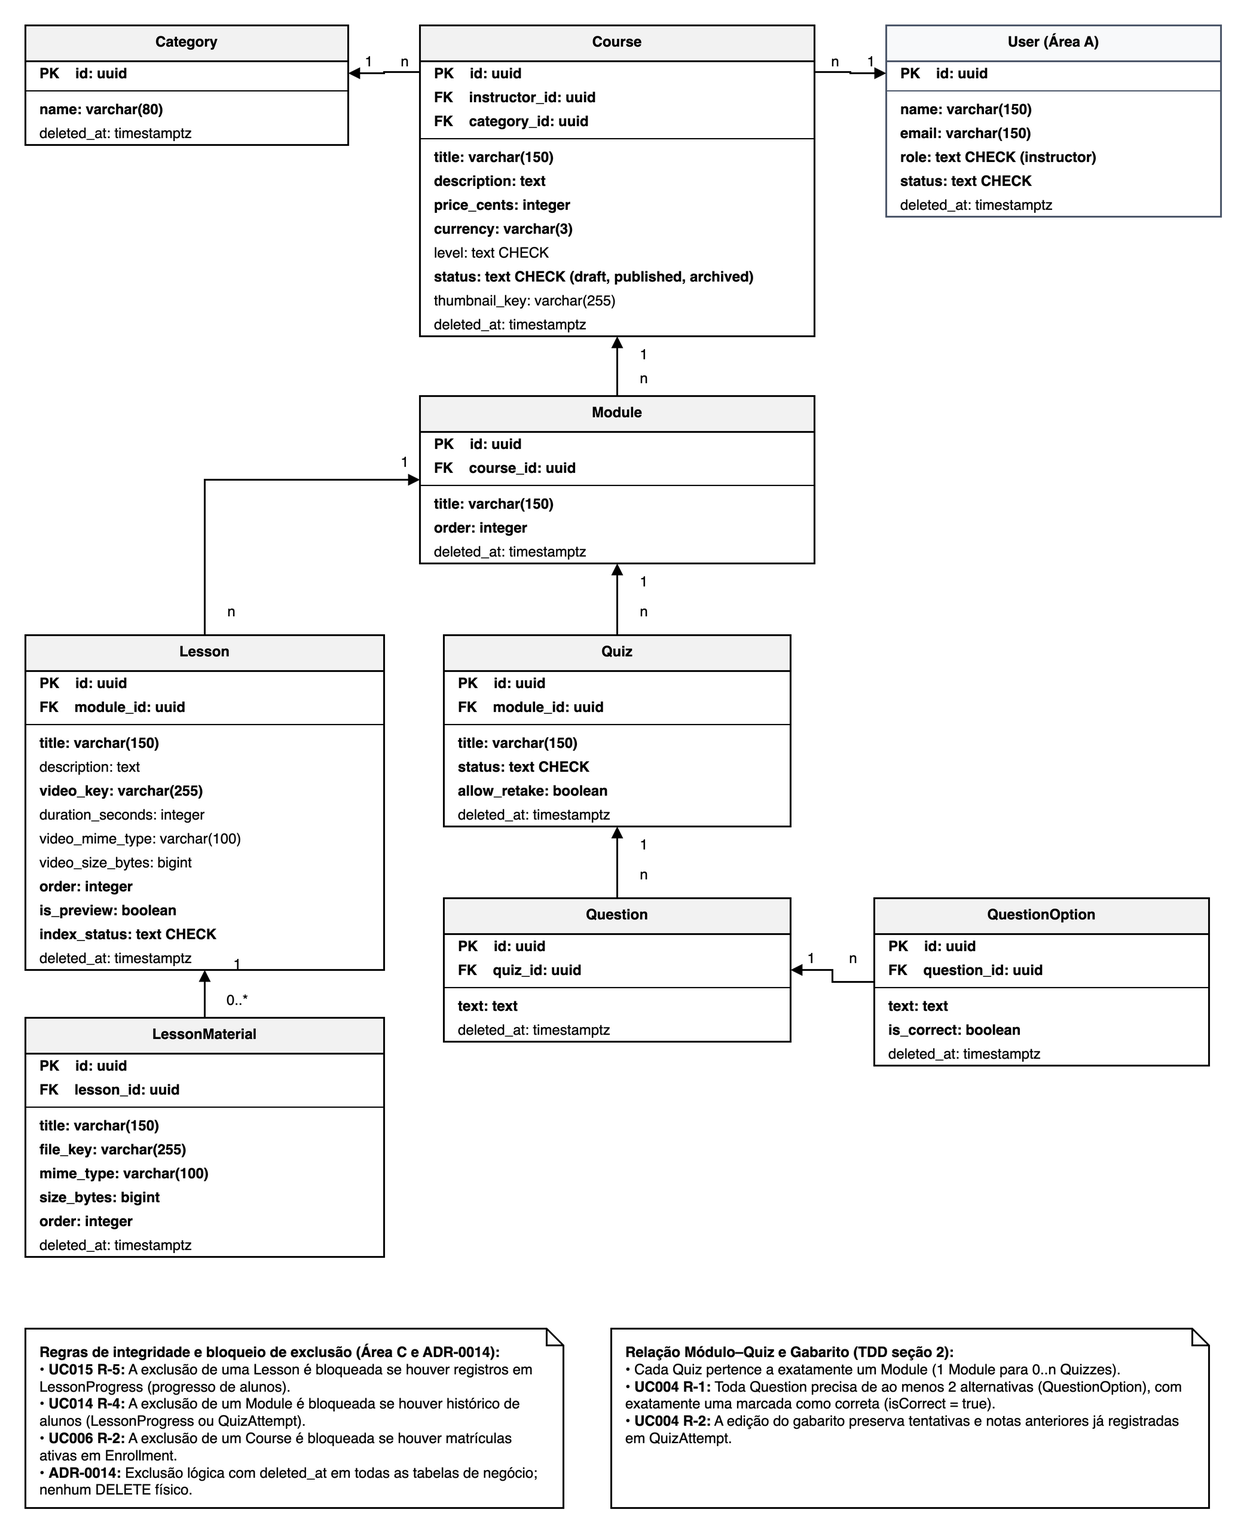
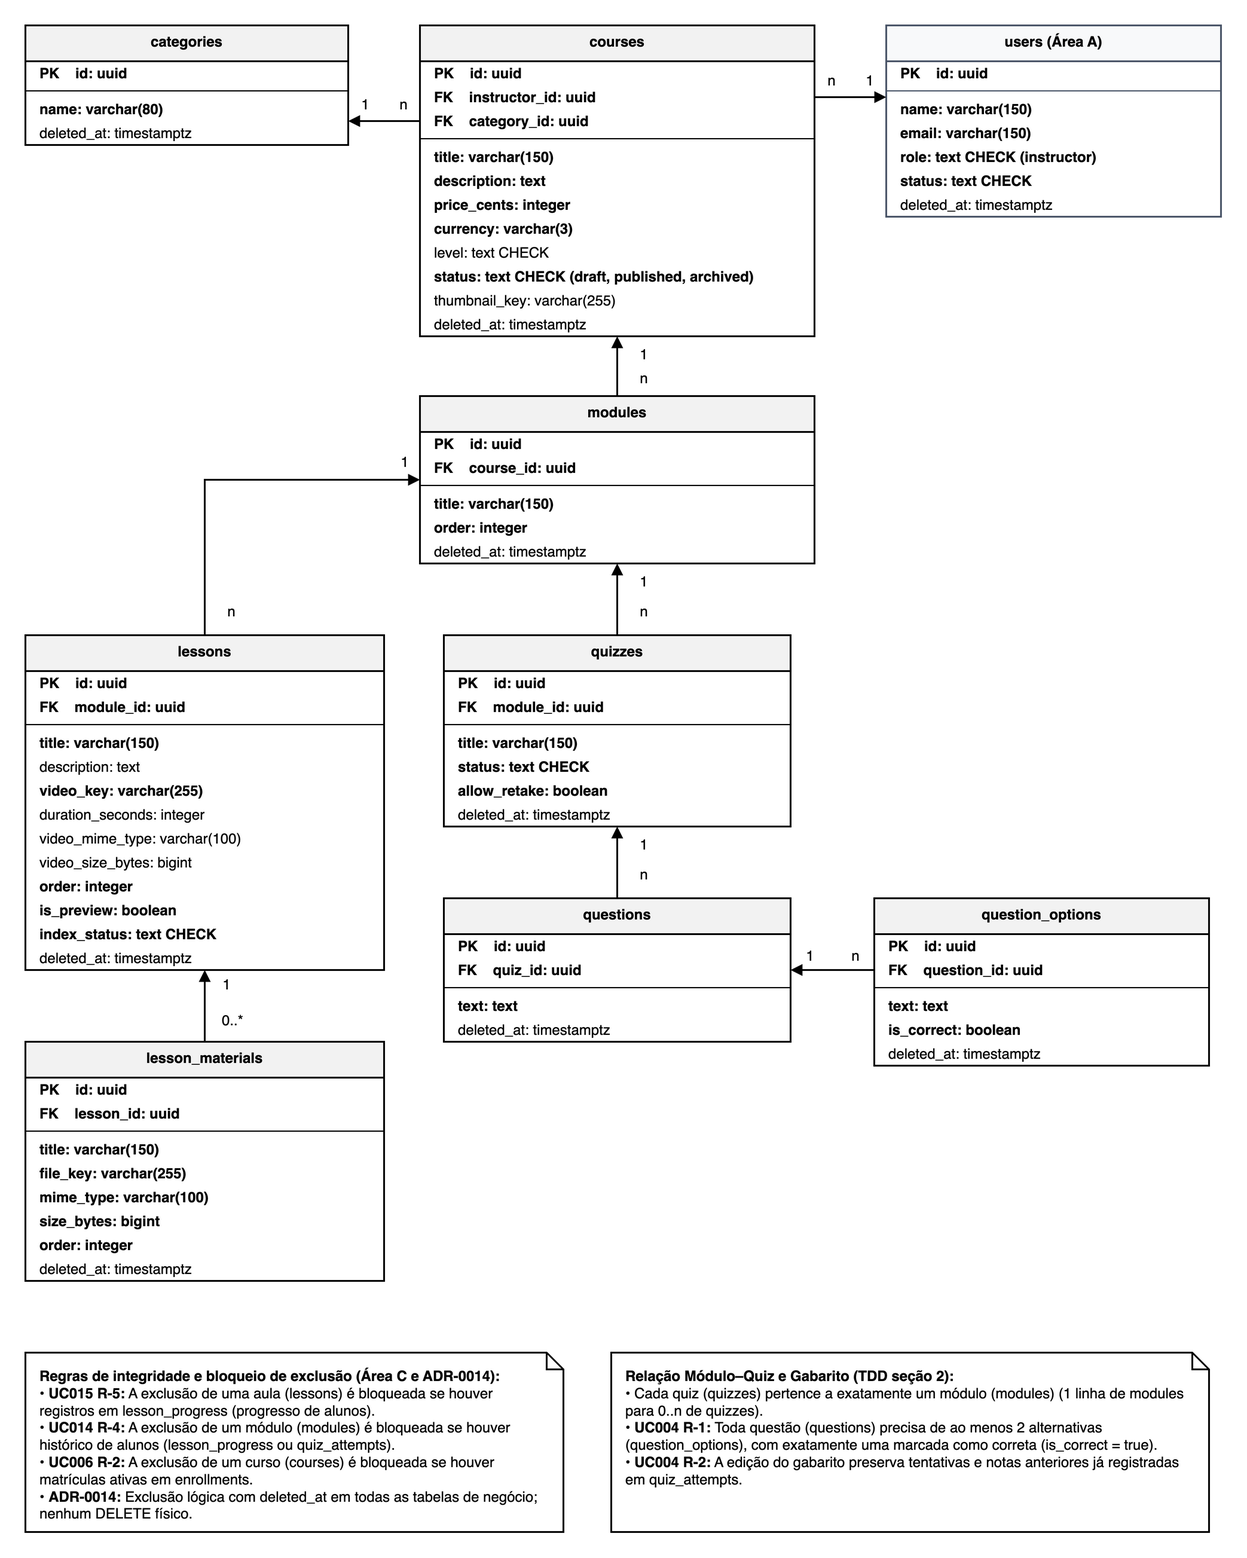
docs(modelo-de-dados): rename area B tables to plural snake_case and straighten arrows
Tables follow ADR-0015 (snake_case in the database) and match Area A naming
(users, addresses). The relational diagram now has straight arrows and the
multiplicity labels no longer sit inside table boxes.

(cherry picked from commit a07269273ffab92caa2e1a95ee2a86d6fb2825f5)

diff --git a/especificacao/12-modelo-de-dados/area-b.md b/especificacao/12-modelo-de-dados/area-b.md
@@ -1,6 +1,6 @@
 ## 2. Área B – Autoria do instrutor
 
-Tabelas que sustentam a criação e gestão de cursos, módulos, aulas com materiais complementares e quizzes com gabarito pelo Instrutor (UC004, UC006, UC014 e UC015; RF002, RF003, RF004 e RF007; US004, US005, US006 e US010). As entidades `Category`, `Course`, `Module`, `Lesson`, `LessonMaterial`, `Quiz`, `Question` e `QuestionOption` derivam do plano técnico, do modelo do TDD e das decisões arquiteturais vigentes (PostgreSQL 16 sob ADR-0017, convenção de nomes snake_case no banco sob ADR-0015 e exclusão lógica sob ADR-0014). A relação entre `Course` e `User` (Área A) expressa a autoria via chave estrangeira `instructor_id`. As regras de integridade com as tabelas de progresso e tentativas de alunos da Área C (`LessonProgress`, `QuizAttempt` e `Enrollment`) garantem que cursos com matrículas ativas (UC006 R-2), módulos com histórico de aulas assistidas ou respostas a quizzes (UC014 R-4) e aulas com registros de progresso (UC015 R-5) tenham sua exclusão estritamente bloqueada, preservando o histórico acadêmico.
+Tabelas que sustentam a criação e gestão de cursos, módulos, aulas com materiais complementares e quizzes com gabarito pelo Instrutor (UC004, UC006, UC014 e UC015; RF002, RF003, RF004 e RF007; US004, US005, US006 e US010). As entidades `categories`, `courses`, `modules`, `lessons`, `lesson_materials`, `quizzes`, `questions` e `question_options` derivam do plano técnico, do modelo do TDD e das decisões arquiteturais vigentes (PostgreSQL 16 sob ADR-0017, convenção de nomes snake_case no banco sob ADR-0015 e exclusão lógica sob ADR-0014). A relação entre `courses` e `users` (Área A) expressa a autoria via chave estrangeira `instructor_id`. As regras de integridade com as tabelas de progresso e tentativas de alunos da Área C (`lesson_progress`, `quiz_attempts` e `enrollments`) garantem que cursos com matrículas ativas (UC006 R-2), módulos com histórico de aulas assistidas ou respostas a quizzes (UC014 R-4) e aulas com registros de progresso (UC015 R-5) tenham sua exclusão estritamente bloqueada, preservando o histórico acadêmico.
 
 ![Modelo lógico da Área B](../diagramas/12-modelo-de-dados-area-b.png)
 
@@ -10,29 +10,29 @@ Decisões do modelo:
 
 - **Convenção por camada e banco PostgreSQL 16 (ADR-0015, ADR-0017):** todas as tabelas e colunas são persistidas em língua inglesa e no padrão `snake_case` (ex.: `course_id`, `video_key`, `created_at`, `deleted_at`). Os tipos de dados utilizam os recursos nativos do PostgreSQL 16: identificadores primários e estrangeiros em `uuid`, strings em `varchar(n)` ou `text`, valores monetários e contadores em `integer` e `bigint`, datas com fuso horário em `timestamptz` e enumerações validadas via restrição `CHECK` (ex.: `level`, `status`, `index_status`).
 - **Exclusão lógica em todo o sistema (ADR-0014):** toda tabela de negócio da Área B contém a coluna `deleted_at: timestamptz` (trait `SoftDeletes` do Eloquent). Nenhuma exclusão realiza `DELETE` físico no banco de dados. As consultas operacionais ignoram registros onde `deleted_at IS NOT NULL`.
-- **Relação Módulo–Quiz resolvida (TDD seção 2):** cada `Quiz` pertence a exatamente um `Module` (`Quiz.module_id` obrigatório), e cada `Module` pode conter zero ou mais quizzes (`0..n`). Isso resolve a hierarquia pedagógica do curso, permitindo avaliações modulares pontuais ou finais de módulo.
+- **Relação Módulo–Quiz resolvida (TDD seção 2):** cada linha de `quizzes` pertence a exatamente um registro de `modules` (`quizzes.module_id` obrigatório), e cada módulo pode conter zero ou mais quizzes (`0..n`). Isso resolve a hierarquia pedagógica do curso, permitindo avaliações modulares pontuais ou finais de módulo.
 - **Normalização até a 3ª Forma Normal (3FN):** todas as tabelas da Área B encontram-se rigorosamente na 3FN. As chaves primárias são UUIDs únicos, todos os atributos não-chave dependem exclusivamente da chave primária inteira (sem dependências parciais) e não há dependências transitivas entre atributos não-chave.
 - **Bloqueio de exclusão e integridade com a Área C:**
-  - A exclusão de um `Course` é bloqueada se houver alunos com matrículas ativas em `Enrollment` (UC006 R-2 e E2, retornando HTTP `409 Conflict`), permitindo apenas a alteração de status para despublicado / rascunho (`draft`) ou arquivado (`archived`).
-  - A exclusão de um `Module` é bloqueada se houver histórico de alunos registrado em `LessonProgress` (para qualquer aula do módulo) ou em `QuizAttempt` (para qualquer quiz do módulo) (UC014 R-4 e E4, retornando HTTP `409 Conflict`). Caso não haja histórico, a exclusão lógica em cascata marca `deleted_at` no módulo, em suas aulas e nos seus quizzes.
-  - A exclusão de uma `Lesson` é bloqueada se houver qualquer registro em `LessonProgress` (UC015 R-5 e E4, retornando HTTP `409 Conflict`). Caso contrário, a exclusão lógica preenche `deleted_at` na aula e em seus materiais complementares e aciona a remoção física dos arquivos de vídeo e materiais no storage Cloudflare R2 via `media-service`.
+  - A exclusão de um curso (`courses`) é bloqueada se houver alunos com matrículas ativas em `enrollments` (UC006 R-2 e E2, retornando HTTP `409 Conflict`), permitindo apenas a alteração de status para despublicado / rascunho (`draft`) ou arquivado (`archived`).
+  - A exclusão de um módulo (`modules`) é bloqueada se houver histórico de alunos registrado em `lesson_progress` (para qualquer aula do módulo) ou em `quiz_attempts` (para qualquer quiz do módulo) (UC014 R-4 e E4, retornando HTTP `409 Conflict`). Caso não haja histórico, a exclusão lógica em cascata marca `deleted_at` no módulo, em suas aulas e nos seus quizzes.
+  - A exclusão de uma aula (`lessons`) é bloqueada se houver qualquer registro em `lesson_progress` (UC015 R-5 e E4, retornando HTTP `409 Conflict`). Caso contrário, a exclusão lógica preenche `deleted_at` na aula e em seus materiais complementares e aciona a remoção física dos arquivos de vídeo e materiais no storage Cloudflare R2 via `media-service`.
 - **Upload via API e gestão de vídeo (UC015, RNF004, RNF018, decisões B2 e B3):** o arquivo de vídeo é enviado diretamente à API em requisição `multipart/form-data`. O backend repassa o binário ao serviço de mídia (`media-service`), que grava o objeto no Cloudflare R2 e retorna a chave persistida (`video_key: varchar(255)`), a duração em segundos (`duration_seconds: integer`), o tipo MIME (`video_mime_type: varchar(100)`) e o tamanho em bytes (`video_size_bytes: bigint`). A aula só é salva após a confirmação do upload, tornando `video_key` estritamente obrigatório. O envio de novo vídeo dispara o job assíncrono de transcrição e indexação vetorial no `ai-service` via fila RabbitMQ (RNF004), com o estado acompanhado pelo campo `index_status: text CHECK (pending, indexed, failed)`.
-- **Materiais complementares da aula (decisão B4):** a tabela `LessonMaterial` (0..n por aula) armazena os anexos de apoio (ex.: apostilas em PDF com até 50 MB), guardando `title: varchar(150)`, a chave no storage (`file_key: varchar(255)`), `mime_type: varchar(100)`, `size_bytes: bigint`, a posição sequencial (`order: integer`) e `deleted_at: timestamptz`. O upload segue o mesmo fluxo da API intermediando a gravação no R2 via `media-service`.
-- **Ciclo de vida do curso e status arquivado (decisão D-TC266):** a coluna `Course.status` aceita os valores `draft`, `published` e `archived`. Na exclusão de uma conta de Instrutor pelo Administrador (UC018), é oferecida a opção de arquivar seus cursos (`status = 'archived'`), o que os oculta do catálogo público para novas matrículas, preservando o acesso irrestrito aos alunos já matriculados.
-- **Estrutura de Quiz, Gabarito e Retentativas (UC004 R-1, R-2):** cada `Quiz` possui status de publicação (`status: text CHECK (draft, published)`) e controle de novas tentativas (`allow_retake: boolean`, padrão `true`). Cada `Question` possui enunciado próprio e associa-se a pelo menos duas alternativas em `QuestionOption`, das quais exatamente uma possui `is_correct = true` (R-1). A edição de enunciados ou do gabarito preserva o histórico de respostas e as notas já atribuídas em `QuizAttempt` (R-2).
-- **Mapeamento de Enums e Internacionalização:** conforme a arquitetura do sistema (ADR-0015), todos os valores enumerados são persistidos no banco de dados em língua inglesa (ex.: `status` em `Course` como `draft`, `published`, `archived`; `status` em `Quiz` como `draft` e `published`; `level` em `Course` como `beginner`, `intermediate` e `advanced`; `index_status` em `Lesson` como `pending`, `indexed` e `failed`). As camadas de apresentação (frontend) e de contrato da API realizam o mapeamento bidirecional desses valores para os respectivos rótulos em português exibidos ao usuário (ex.: `draft` → 'Rascunho', `published` → 'Publicado', `archived` → 'Arquivado'; `pending` → 'Pendente', `indexed` → 'Indexado', `failed` → 'Falhou'; `beginner` → 'Iniciante', `intermediate` → 'Intermediário', `advanced` → 'Avançado').
-- **Valores monetários e localização:** `Course.price_cents` armazena o preço em centavos como número inteiro para evitar imprecisões de arredondamento de ponto flutuante, com `Course.currency` fixada no código ISO 4217 (`BRL` por padrão).
+- **Materiais complementares da aula (decisão B4):** a tabela `lesson_materials` (0..n por aula) armazena os anexos de apoio (ex.: apostilas em PDF com até 50 MB), guardando `title: varchar(150)`, a chave no storage (`file_key: varchar(255)`), `mime_type: varchar(100)`, `size_bytes: bigint`, a posição sequencial (`order: integer`) e `deleted_at: timestamptz`. O upload segue o mesmo fluxo da API intermediando a gravação no R2 via `media-service`.
+- **Ciclo de vida do curso e status arquivado (decisão D-TC266):** a coluna `courses.status` aceita os valores `draft`, `published` e `archived`. Na exclusão de uma conta de Instrutor pelo Administrador (UC018), é oferecida a opção de arquivar seus cursos (`status = 'archived'`), o que os oculta do catálogo público para novas matrículas, preservando o acesso irrestrito aos alunos já matriculados.
+- **Estrutura de Quiz, Gabarito e Retentativas (UC004 R-1, R-2):** cada quiz (`quizzes`) possui status de publicação (`status: text CHECK (draft, published)`) e controle de novas tentativas (`allow_retake: boolean`, padrão `true`). Cada questão (`questions`) possui enunciado próprio e associa-se a pelo menos duas alternativas em `question_options`, das quais exatamente uma possui `is_correct = true` (R-1). A edição de enunciados ou do gabarito preserva o histórico de respostas e as notas já atribuídas em `quiz_attempts` (R-2).
+- **Mapeamento de Enums e Internacionalização:** conforme a arquitetura do sistema (ADR-0015), todos os valores enumerados são persistidos no banco de dados em língua inglesa (ex.: `status` em `courses` como `draft`, `published`, `archived`; `status` em `quizzes` como `draft` e `published`; `level` em `courses` como `beginner`, `intermediate` e `advanced`; `index_status` em `lessons` como `pending`, `indexed` e `failed`). As camadas de apresentação (frontend) e de contrato da API realizam o mapeamento bidirecional desses valores para os respectivos rótulos em português exibidos ao usuário (ex.: `draft` → 'Rascunho', `published` → 'Publicado', `archived` → 'Arquivado'; `pending` → 'Pendente', `indexed` → 'Indexado', `failed` → 'Falhou'; `beginner` → 'Iniciante', `intermediate` → 'Intermediário', `advanced` → 'Avançado').
+- **Valores monetários e localização:** `courses.price_cents` armazena o preço em centavos como número inteiro para evitar imprecisões de arredondamento de ponto flutuante, com `courses.currency` fixada no código ISO 4217 (`BRL` por padrão).
 
 | ATRIBUTO | CLASSE | DOMÍNIO | TAMANHO | DESCRIÇÃO |
 |---|---|---|---|---|
-| **Tabela: Category** | | | | Categorias temáticas de classificação dos cursos. |
+| **Tabela: categories** | | | | Categorias temáticas de classificação dos cursos. |
 | id | Determinante | UUID | - | Identificador único da categoria (chave primária). |
 | name | Simples | Texto | 80 | Nome descritivo da categoria de curso (obrigatório). |
 | deleted_at | Simples | Data e hora | - | Timestamp de exclusão lógica (ADR-0014); nulo se ativo. |
-| **Tabela: Course** | | | | Catálogo de cursos criados por instrutores (UC006, RF002). |
+| **Tabela: courses** | | | | Catálogo de cursos criados por instrutores (UC006, RF002). |
 | id | Determinante | UUID | - | Identificador único do curso (chave primária). |
-| instructor_id | Simples | UUID | - | FK para `User.id` (Área A), identificando o instrutor proprietário do curso. |
-| category_id | Simples | UUID | - | FK para `Category.id`, categorização temática do curso. |
+| instructor_id | Simples | UUID | - | FK para `users.id` (Área A), identificando o instrutor proprietário do curso. |
+| category_id | Simples | UUID | - | FK para `categories.id`, categorização temática do curso. |
 | title | Simples | Texto | 150 | Título oficial do curso (obrigatório). |
 | description | Simples | Texto longo | TEXT | Descrição detalhada do conteúdo programático (obrigatório). |
 | price_cents | Simples | Inteiro | - | Preço do curso expresso em centavos (inteiro, obrigatório). |
@@ -41,15 +41,15 @@ Decisões do modelo:
 | status | Simples | Texto | 20 | Estado de publicação: 'draft', 'published' ou 'archived' (obrigatório, padrão 'draft'). |
 | thumbnail_key | Simples | Texto | 255 | Chave da imagem de capa no storage Cloudflare R2 (opcional). |
 | deleted_at | Simples | Data e hora | - | Timestamp de exclusão lógica (ADR-0014); nulo se ativo. |
-| **Tabela: Module** | | | | Módulos de conteúdo programático ordenados dentro do curso (UC014, RF003). |
+| **Tabela: modules** | | | | Módulos de conteúdo programático ordenados dentro do curso (UC014, RF003). |
 | id | Determinante | UUID | - | Identificador único do módulo (chave primária). |
-| course_id | Simples | UUID | - | FK para `Course.id`, curso ao qual o módulo pertence. |
+| course_id | Simples | UUID | - | FK para `courses.id`, curso ao qual o módulo pertence. |
 | title | Simples | Texto | 150 | Título descritivo do módulo (obrigatório). |
 | order | Simples | Inteiro | - | Posição sequencial do módulo dentro do curso (única por curso, obrigatório). |
 | deleted_at | Simples | Data e hora | - | Timestamp de exclusão lógica (ADR-0014); nulo se ativo. |
-| **Tabela: Lesson** | | | | Unidade de aula em vídeo com metadados e indexação vetorial (UC015, RF004). |
+| **Tabela: lessons** | | | | Unidade de aula em vídeo com metadados e indexação vetorial (UC015, RF004). |
 | id | Determinante | UUID | - | Identificador único da aula (chave primária). |
-| module_id | Simples | UUID | - | FK para `Module.id`, módulo ao qual a aula pertence. |
+| module_id | Simples | UUID | - | FK para `modules.id`, módulo ao qual a aula pertence. |
 | title | Simples | Texto | 150 | Título da aula (obrigatório). |
 | description | Simples | Texto longo | TEXT | Descrição do conteúdo da aula (opcional). |
 | video_key | Simples | Texto | 255 | Chave do arquivo de vídeo no storage Cloudflare R2 (obrigatório após upload). |
@@ -60,30 +60,30 @@ Decisões do modelo:
 | is_preview | Simples | Booleano | - | Flag indicando se a aula pode ser assistida gratuitamente como degustação (padrão false). |
 | index_status | Simples | Texto | 20 | Status da indexação vetorial para o Tutor de IA: 'pending', 'indexed', 'failed' (obrigatório, padrão 'pending'). |
 | deleted_at | Simples | Data e hora | - | Timestamp de exclusão lógica (ADR-0014); nulo se ativo. |
-| **Tabela: LessonMaterial** | | | | Arquivos complementares de apoio vinculados à aula (UC015, RF004, decisão B4). |
+| **Tabela: lesson_materials** | | | | Arquivos complementares de apoio vinculados à aula (UC015, RF004, decisão B4). |
 | id | Determinante | UUID | - | Identificador único do material complementar (chave primária). |
-| lesson_id | Simples | UUID | - | FK para `Lesson.id`, aula à qual o material pertence. |
+| lesson_id | Simples | UUID | - | FK para `lessons.id`, aula à qual o material pertence. |
 | title | Simples | Texto | 150 | Título descritivo do material (obrigatório). |
 | file_key | Simples | Texto | 255 | Chave do arquivo de documento no storage Cloudflare R2 (obrigatório). |
 | mime_type | Simples | Texto | 100 | Tipo MIME do arquivo (ex.: 'application/pdf', obrigatório). |
 | size_bytes | Simples | Inteiro grande | - | Tamanho do arquivo em bytes (até 50 MB, obrigatório). |
 | order | Simples | Inteiro | - | Posição sequencial do material dentro da aula (obrigatório). |
 | deleted_at | Simples | Data e hora | - | Timestamp de exclusão lógica (ADR-0014); nulo se ativo. |
-| **Tabela: Quiz** | | | | Avaliações objetivas vinculadas aos módulos do curso (UC004, RF007). |
+| **Tabela: quizzes** | | | | Avaliações objetivas vinculadas aos módulos do curso (UC004, RF007). |
 | id | Determinante | UUID | - | Identificador único do quiz (chave primária). |
-| module_id | Simples | UUID | - | FK para `Module.id`, vinculando o quiz ao módulo correspondente. |
+| module_id | Simples | UUID | - | FK para `modules.id`, vinculando o quiz ao módulo correspondente. |
 | title | Simples | Texto | 150 | Título do quiz (obrigatório). |
 | status | Simples | Texto | 20 | Estado de publicação do quiz: 'draft' ou 'published' (obrigatório, padrão 'draft'). |
 | allow_retake | Simples | Booleano | - | Flag indicando se novas tentativas de resolução são permitidas após submissão (padrão true, obrigatório). |
 | deleted_at | Simples | Data e hora | - | Timestamp de exclusão lógica (ADR-0014); nulo se ativo. |
-| **Tabela: Question** | | | | Questões avaliativas que compõem o quiz (UC004, RF007). |
+| **Tabela: questions** | | | | Questões avaliativas que compõem o quiz (UC004, RF007). |
 | id | Determinante | UUID | - | Identificador único da questão (chave primária). |
-| quiz_id | Simples | UUID | - | FK para `Quiz.id`, quiz proprietário da questão. |
+| quiz_id | Simples | UUID | - | FK para `quizzes.id`, quiz proprietário da questão. |
 | text | Simples | Texto longo | TEXT | Enunciado da questão (obrigatório). |
 | deleted_at | Simples | Data e hora | - | Timestamp de exclusão lógica (ADR-0014); nulo se ativo. |
-| **Tabela: QuestionOption** | | | | Alternativas de resposta e gabarito oficial da questão (UC004, RF007). |
+| **Tabela: question_options** | | | | Alternativas de resposta e gabarito oficial da questão (UC004, RF007). |
 | id | Determinante | UUID | - | Identificador único da alternativa (chave primária). |
-| question_id | Simples | UUID | - | FK para `Question.id`, questão à qual a alternativa pertence. |
+| question_id | Simples | UUID | - | FK para `questions.id`, questão à qual a alternativa pertence. |
 | text | Simples | Texto longo | TEXT | Texto descritivo da alternativa (obrigatório). |
 | is_correct | Simples | Booleano | - | Indica se a alternativa compõe o gabarito oficial (obrigatório). |
 | deleted_at | Simples | Data e hora | - | Timestamp de exclusão lógica (ADR-0014); nulo se ativo. |

diff --git a/CHANGELOG.md b/CHANGELOG.md
@@ -43,6 +43,7 @@ Registro do caminho do documento de especificação da Plataforma de Cursos até
 - Item 14 (Diagramas de sequência): diagramas de sequência da Área B atualizados com upload direto de vídeo via API (media-service) com video_key obrigatório no UC015, exclusão lógica (deleted_at) e alinhamento dos fluxos de cancelamento A3 em blocos alt exclusivos para UC004, UC006, UC014 e UC015 (decisões B1, B2, B3, ADR-0014) (#TBD).
 - Item 13 (Diagrama de classes): diagramas de classes da Área B atualizados com cores de cabeçalho por papel e legenda (Controller, Service, Repository, DTO/Request, Resource, Entity, Interface), upload direto via API com videoKey obrigatório, gestão de materiais complementares da aula (LessonMaterial), status archived em Course e ApiException unificada (decisões B1, B2, B3, B4, D-TC266, ADR-0014, ADR-0015) (#TBD).
 - Item 12 (Modelo de dados): modelo relacional da Área B migrado para PostgreSQL 16 (ADR-0017) em snake_case (ADR-0015), com soft delete em todas as tabelas (ADR-0014), status archived em Course (decisão D-TC266), LessonMaterial (decisão B4) e upload via API com video_key obrigatório (decisões B2, B3) (#TBD).
+- Item 12 (Modelo de dados): tabelas da Área B renomeadas para snake_case no plural (`courses`, `lessons`, `lesson_materials`, `question_options`), como a Área A, e setas e multiplicidades do `.drawio` realinhadas, para o dicionário e o diagrama seguirem a convenção da ADR-0015 (#TBD).
 - Item 10 (Especificações de caso de uso): fluxos de cancelamento incluídos em UC004, UC006, UC014 e UC015 (decisão B1); UC015 atualizado com upload de vídeo pela API, video_key obrigatório e gestão de material complementar (decisões B2, B3, B4) (#TBD).
 - Item 7 (Estórias de usuário): US006 atualizada com escopo e critérios de aceite para materiais complementares da aula em PDF (decisão B4) (#TBD).
 - Item 6 (Requisitos funcionais): RF004 atualizado para incluir o gerenciamento e upload de material complementar da aula pela API (decisão B4) (#TBD).
